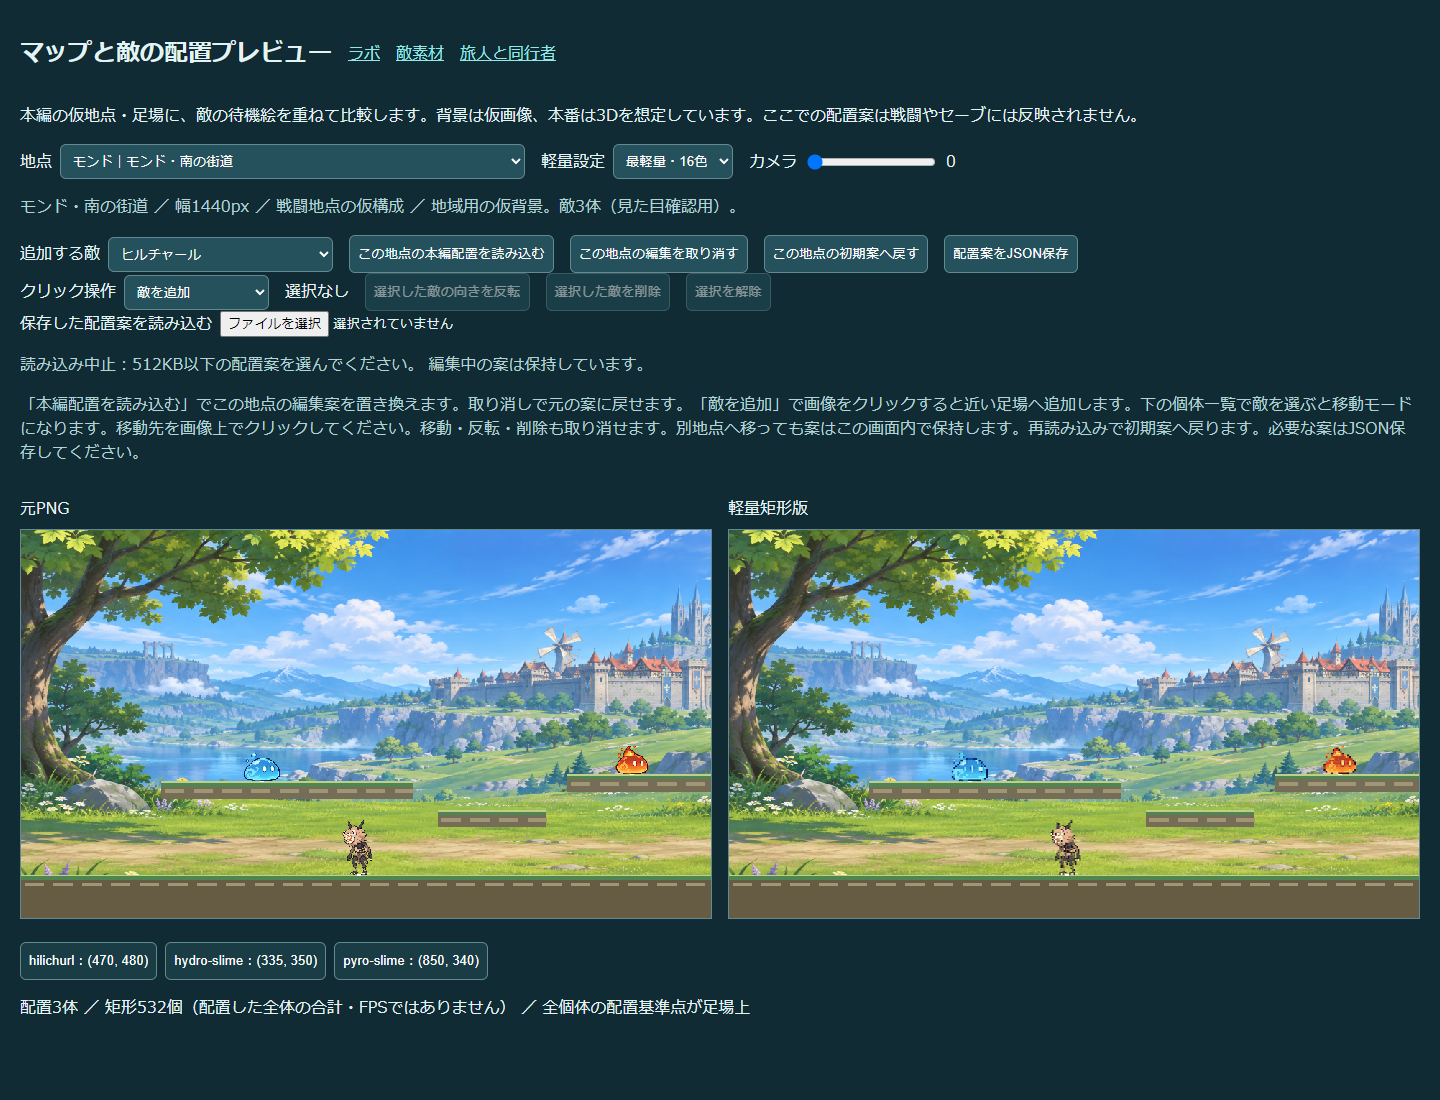
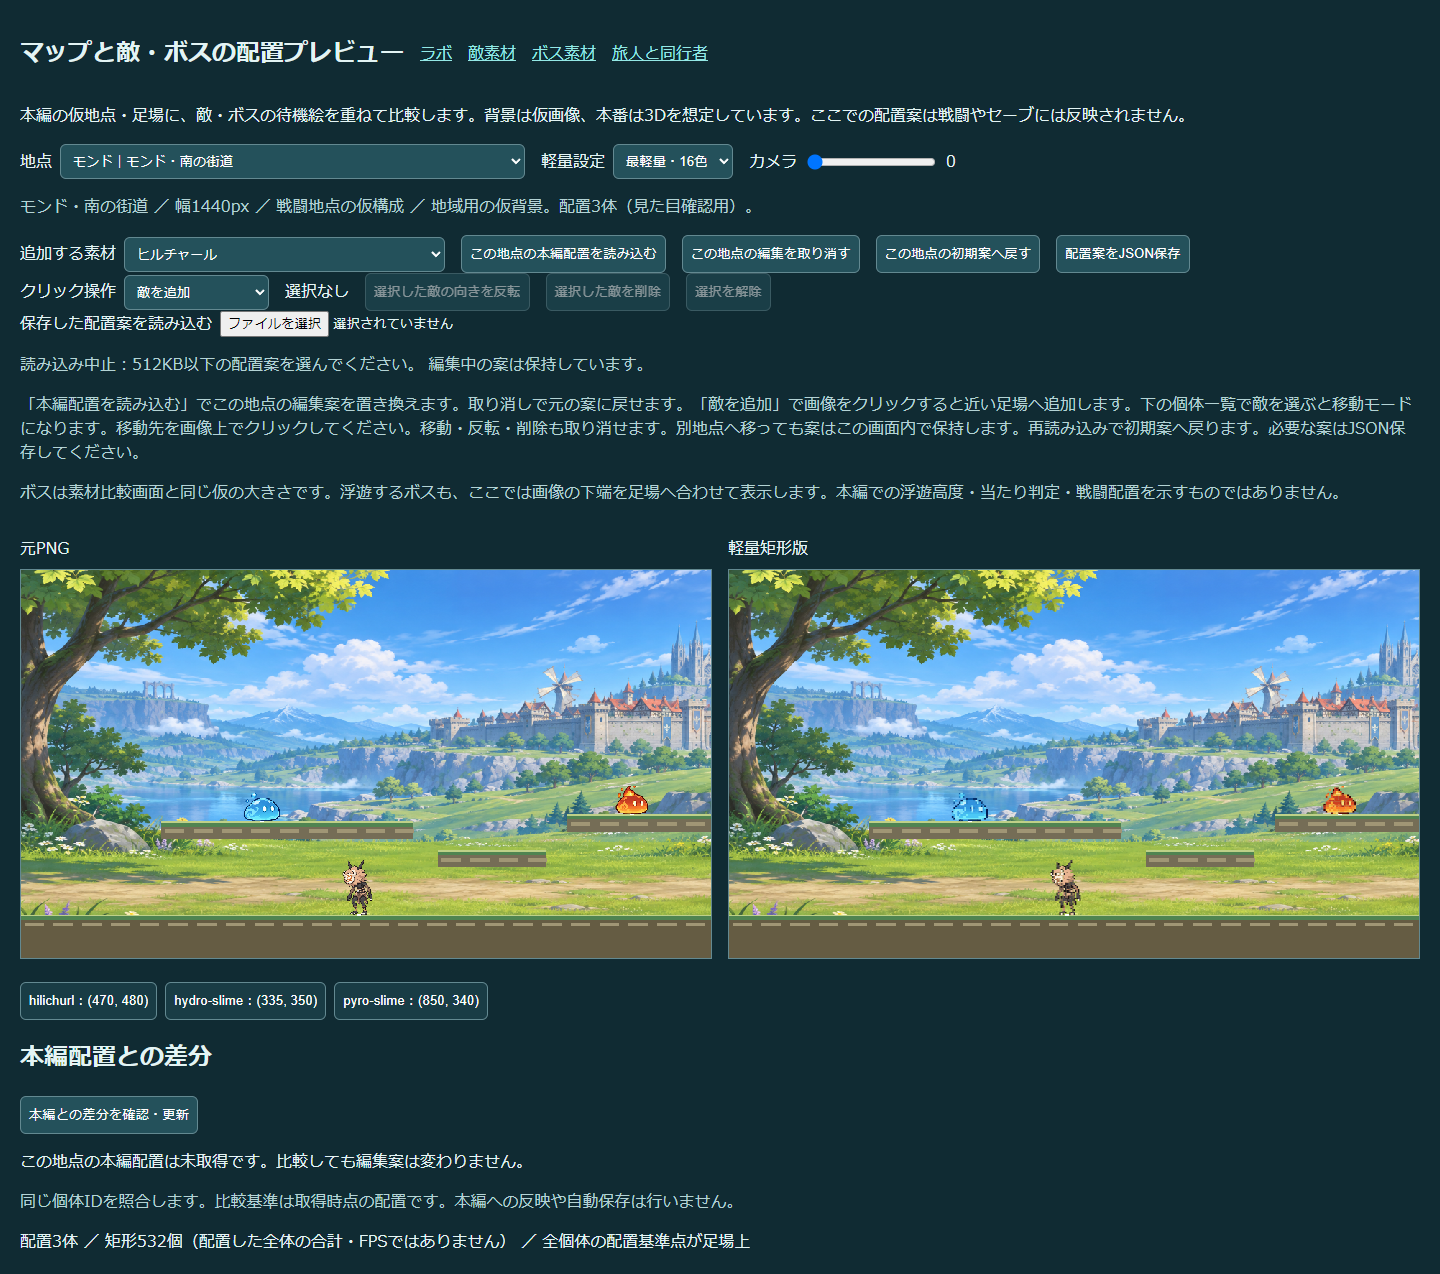
Preview all boss art candidates on map backgrounds with placement roundtrips

diff --git a/map-art.html b/map-art.html
@@ -1,11 +1,12 @@
-<!doctype html><html lang="ja"><meta charset="utf-8"><meta name="viewport" content="width=device-width,initial-scale=1"><title>マップと敵の配置プレビュー</title>
+<!doctype html><html lang="ja"><meta charset="utf-8"><meta name="viewport" content="width=device-width,initial-scale=1"><title>マップと敵・ボスの配置プレビュー</title>
 <style>body{margin:20px;background:#102b33;color:#e3f4f4;font:16px sans-serif}a{color:#94e8e5}header,.controls{display:flex;gap:16px;align-items:center;flex-wrap:wrap}h1{font-size:24px}select{min-width:0}select,button{padding:8px;background:#24515b;color:white;border:1px solid #638991;border-radius:6px;max-width:100%}label{max-width:100%;min-width:0;display:flex;gap:8px;align-items:center;flex-wrap:wrap}main{display:grid;grid-template-columns:repeat(auto-fit,minmax(min(100%,480px),1fr));gap:16px}figure{margin:16px 0}canvas{width:100%;image-rendering:pixelated;border:1px solid #638991;box-sizing:border-box}figcaption{margin-bottom:8px}.note{color:#b4d3d5}input{max-width:100%;min-width:0}#placements{display:flex;gap:8px;flex-wrap:wrap}#placements button{padding:8px;background:#193c45;border-radius:6px}button[aria-pressed="true"]{outline:2px solid #ffe08a}button:disabled{opacity:.5}</style>
-<header><h1>マップと敵の配置プレビュー</h1><a href="index.html">ラボ</a><a href="enemies-art.html">敵素材</a><a href="characters-art.html">旅人と同行者</a></header>
-<p>本編の仮地点・足場に、敵の待機絵を重ねて比較します。背景は仮画像、本番は3Dを想定しています。ここでの配置案は戦闘やセーブには反映されません。</p>
+<header><h1>マップと敵・ボスの配置プレビュー</h1><a href="index.html">ラボ</a><a href="enemies-art.html">敵素材</a><a href="bosses-art.html">ボス素材</a><a href="characters-art.html">旅人と同行者</a></header>
+<p>本編の仮地点・足場に、敵・ボスの待機絵を重ねて比較します。背景は仮画像、本番は3Dを想定しています。ここでの配置案は戦闘やセーブには反映されません。</p>
 <div class="controls"><label>地点 <select id="node"></select></label><label>軽量設定 <select id="profile"><option value="legacy">標準</option><option value="h48c32">中間・32色</option><option value="h32c16" selected>最軽量・16色</option></select></label><label>カメラ <input id="camera" type="range" min="0" value="0" step="1"><output id="cameraValue">0</output></label></div>
-<p id="context" class="note"></p><div class="controls"><label>追加する敵 <select id="species"><option value="armored-crab">重甲ヤドカニ（全身参照v2）</option><option value="nobushi">野伏・陣刀番（待機候補）</option><option value="dendro-fungus">浮遊草キノコン（待機候補）</option><option value="ruin-guard">遺跡守衛（待機候補）</option><option value="hilichurl" selected>ヒルチャール</option><option value="hydro-slime">水スライム（旧候補）</option><option value="pyro-slime">炎スライム（旧候補）</option><option value="hydro-slime-reference">水スライム（参照付き新候補）</option><option value="pyro-slime-reference">炎スライム（参照付き新候補）</option></select></label><button id="loadLive">この地点の本編配置を読み込む</button><button id="undo">この地点の編集を取り消す</button><button id="reset">この地点の初期案へ戻す</button><button id="export">配置案をJSON保存</button></div>
+<p id="context" class="note"></p><div class="controls"><label>追加する素材 <select id="species"><option value="armored-crab">重甲ヤドカニ（全身参照v2）</option><option value="nobushi">野伏・陣刀番（待機候補）</option><option value="dendro-fungus">浮遊草キノコン（待機候補）</option><option value="ruin-guard">遺跡守衛（待機候補）</option><option value="hilichurl" selected>ヒルチャール</option><option value="hydro-slime">水スライム（旧候補）</option><option value="pyro-slime">炎スライム（旧候補）</option><option value="hydro-slime-reference">水スライム（参照付き新候補）</option><option value="pyro-slime-reference">炎スライム（参照付き新候補）</option></select></label><button id="loadLive">この地点の本編配置を読み込む</button><button id="undo">この地点の編集を取り消す</button><button id="reset">この地点の初期案へ戻す</button><button id="export">配置案をJSON保存</button></div>
 <div class="controls"><label>クリック操作 <select id="editMode"><option value="add">敵を追加</option><option value="move">選択した敵を移動</option></select></label><span id="selectionStatus">選択なし</span><button id="flipSelected" disabled>選択した敵の向きを反転</button><button id="deleteSelected" disabled>選択した敵を削除</button><button id="clearSelection" disabled>選択を解除</button></div>
 <label>保存した配置案を読み込む <input id="import" type="file" accept=".json,application/json"></label><p id="fileStatus" role="status" class="note">読み込むと全地点の編集案を置き換えます。必要な案は先にJSON保存してください。</p>
 <p class="note">「本編配置を読み込む」でこの地点の編集案を置き換えます。取り消しで元の案に戻せます。「敵を追加」で画像をクリックすると近い足場へ追加します。下の個体一覧で敵を選ぶと移動モードになります。移動先を画像上でクリックしてください。移動・反転・削除も取り消せます。別地点へ移っても案はこの画面内で保持します。再読み込みで初期案へ戻ります。必要な案はJSON保存してください。</p>
+<p class="note">ボスは素材比較画面と同じ仮の大きさです。浮遊するボスも、ここでは画像の下端を足場へ合わせて表示します。本編での浮遊高度・当たり判定・戦闘配置を示すものではありません。</p>
 <main><figure><figcaption>元PNG</figcaption><canvas id="png" width="960" height="540"></canvas></figure><figure><figcaption>軽量矩形版</figcaption><canvas id="rect" width="960" height="540"></canvas></figure></main>
 <div id="placements"></div><section aria-label="本編配置との差分"><h2>本編配置との差分</h2><button id="compareLive">本編との差分を確認・更新</button><p id="diffSummary" role="status"></p><ul id="diffDetails"></ul><p class="note">同じ個体IDを照合します。比較基準は取得時点の配置です。本編への反映や自動保存は行いません。</p></section><p id="status" role="status">読み込み中</p><script type="module" src="map-art.js"></script></html>

diff --git a/map-art.js b/map-art.js
@@ -14,6 +14,11 @@ try{
  assets.hilichurl={...await json('assets/hilichurl-idle-sprites.json'),h:76};
  for(const element of ['hydro','pyro'])assets[`${element}-slime-reference`]={...await json(`assets/${element}-slime-idle-sprites.json`),h:40};
  for(const [id,data] of Object.entries(assets)){const layout=layouts[id.replace('-reference','')];data.h=layout.height;data.hover=layout.hover}
+ const bossGallery=await json('content/boss-art-gallery.json');
+ const bossGroup=document.createElement('optgroup');bossGroup.label='ボス待機候補（比較用の大きさ）';
+ const bossAssets=await Promise.all(bossGallery.items.map(async item=>({item,data:await json('assets/'+item.file)})));
+ for(const {item,data} of bossAssets){const id='boss-'+item.id;assets[id]={...data,h:item.height,hover:0};const option=document.createElement('option');option.value=id;option.textContent=item.name;bossGroup.append(option)}
+ $('species').append(bossGroup);
  for(const data of Object.values(assets)){data.image=new Image();data.image.src='assets/'+data.source;await data.image.decode()}
  drafts=validatePlacementDraft(drafts,graph,Object.keys(assets));
  for(const n of graph.nodes){const option=document.createElement('option');option.value=n.id;option.textContent=`${n.region}｜${n.name}`;$('node').append(option)}$('node').value='mond-road';
@@ -24,7 +29,7 @@ try{
   if(!items.some(e=>e.id===selected))selected=null;
   const background=sceneryStatus(frame);
   const mapped=Object.values(sceneryDefinitions).some(d=>d.region===n.region),valid=items.every(e=>n.platforms.some(p=>p.y===e.y&&e.x>=p.x&&e.x<=p.x+p.w));
-  $('cameraValue').value=camera;$('context').textContent=`${n.name} ／ 幅${n.width}px ／ ${n.hub?'拠点':n.peaceful?'非戦闘地点':'戦闘地点の仮構成'} ／ ${background.state!=='ready'?'背景画像を読み込めません：単色で表示（'+background.file+'）':mapped?(sceneryDefinitions[background.key].note||'地域用の仮背景'):'専用背景未制作：モンド画像で代用'}。敵${items.length}体（見た目確認用）。`;
+  $('cameraValue').value=camera;$('context').textContent=`${n.name} ／ 幅${n.width}px ／ ${n.hub?'拠点':n.peaceful?'非戦闘地点':'戦闘地点の仮構成'} ／ ${background.state!=='ready'?'背景画像を読み込めません：単色で表示（'+background.file+'）':mapped?(sceneryDefinitions[background.key].note||'地域用の仮背景'):'専用背景未制作：モンド画像で代用'}。配置${items.length}体（見た目確認用）。`;
   for(const mode of ['png','rect']){const ctx=$(mode).getContext('2d');ctx.clearRect(0,0,960,540);scenery(ctx,frame);ctx.imageSmoothingEnabled=false;
    for(const e of items){const a=assets[e.species],w=a.h*a.box[2]/a.box[3],anchor=a.anchorX??.5,x=e.x-camera;ctx.save();ctx.translate(x,e.y-a.hover);if(e.flip)ctx.scale(-1,1);
     if(mode==='png')ctx.drawImage(a.image,...a.box,-w*anchor,-a.h,w,a.h);else{const p=a.profiles[profile];for(const r of p.runs){ctx.fillStyle=r[4];ctx.fillRect(-w*anchor+r[0]*w/p.width,-a.h+r[1]*a.h/p.height,r[2]*w/p.width+.05,r[3]*a.h/p.height+.05)}}ctx.restore();

diff --git a/CHAT_HANDOFF.md b/CHAT_HANDOFF.md
@@ -252,3 +252,6 @@ map-art.html追加: 本編61仮地点の足場/背景を選択し、元PNGと軽
 
 
 2026-11-17: マッシュラプトルの参照付き待機候補を追加。HoYoWiki2716の全身イラスト/カード/全身レンダー/同姿勢絵/ゲーム内側面を直接確認し、レンダーとゲーム画像を生成参照に使用。3D背面未確認。160/120/80px=6145/4055/1893矩形（最軽量69.19%減、実機FPSではない）。16ボス17候補の3設定3倍率左右/画像切れ/縦横比/ID一致/390px検査通過。PNG/最軽量を目視し扇尾・冠・配色は残るが胸毛/脚の線は断片化。原作よりずんぐりした試作形状で、アニメ/本編配置/戦闘未実装。encounterのnot_implemented維持、技変更なし。背景は引き続きラボ仮画像、本番3D想定。根拠 evidence/jadeplume-reference-audit.json, evidence/jadeplume-comparison.png。
+
+
+2026-11-17: マップ配置プレビューへボス素材一覧の全17候補（16ボス）を追加。共通一覧から名前/画像/表示高を読み込み、敵素材とのID衝突を避けboss-接頭辞を使用。仮背景と足場上でPNG/3段階矩形を比較でき、移動/反転/削除/取り消し/配置JSONに対応。浮遊ボスも画像下端を足場へ合わせる比較用表示で、本編高度/判定ではないと画面に明記。17候補の配置/高さ/3設定/反転/書出読戻/削除undo/390px検査と既存61地点検査を通過。スメール背景のマッシュラプトルPNG/最軽量を直接目視し接地を確認、緑の輪郭が背景へ一部溶け込み胸毛線が粗くなる。技/本編配置変更なし。根拠 evidence/boss-placement-test.json, evidence/jadeplume-map-comparison.png。
